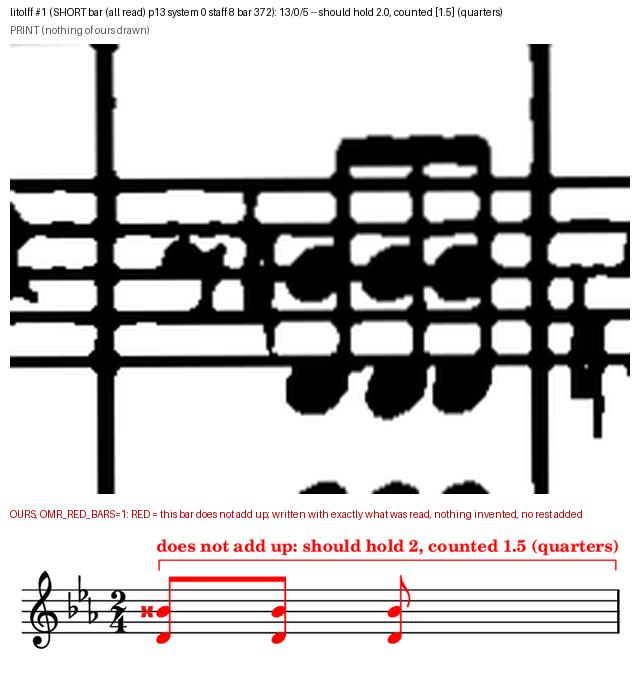
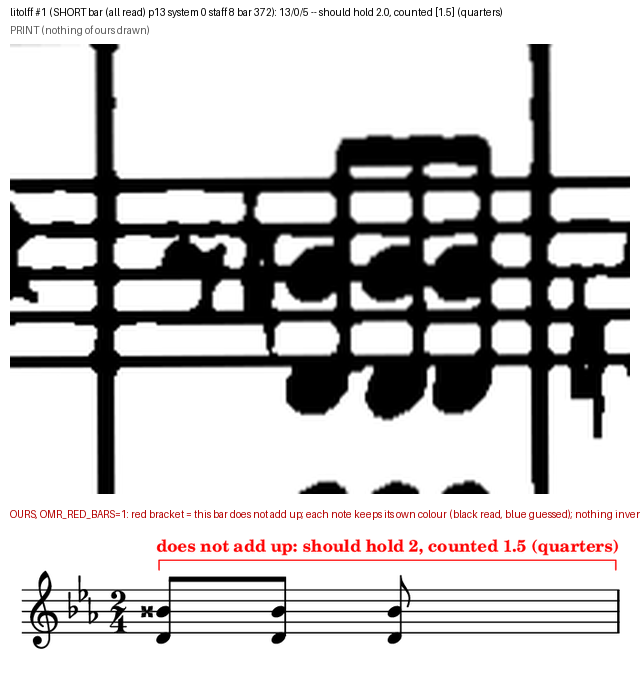
2.173: each note keeps its own status colour; the bar is red by bracket + words (Sean 2026-10-19); crops regenerated, DECISIONS

Changed region(s): [[0.2188, 0.7294, 1.0, 0.7598], [0.2188, 0.8205, 0.4688, 0.9421], [0.5938, 0.8205, 0.6562, 0.9421]]

diff --git a/tools/omr/staged/lilypond.py b/tools/omr/staged/lilypond.py
@@ -965,13 +965,8 @@ def _render_bar(bar: _Bar, wedges: Dict[int, str],
     return f"{prefix}<< {{ {inner1} }} \\\\ {{ {inner2} }} >> |"
 
 
-#: ROADMAP 2.173. The grobs a red bar is drawn in red. Set inside each voice
-#: and reverted at the end of it, so nothing after the bar is touched.
-_RED_GROBS = ("NoteHead", "Stem", "Beam", "Flag", "Rest", "Dots",
-              "Accidental", "Script", "Slur", "Tie", "TupletBracket",
-              "TupletNumber")
-_RED_ON = " ".join("\\override %s.color = #red" % g for g in _RED_GROBS)
-_RED_OFF = " ".join("\\revert %s.color" % g for g in _RED_GROBS)
+#: ROADMAP 2.173 (Sean 2026-10-19: each note keeps ITS OWN status colour; the
+#: BAR is red -- bracket + words).
 _RED_SPAN = (
     # the words take NO horizontal room: a 50-character label under every red
     # bar tripled the page count (48 -> 146 on Litolff) when it did
@@ -1007,7 +1002,7 @@ def _render_red_bar(bar: _Bar, wedges: Dict[int, str],
     * SHORT: nothing is scaled; an INVISIBLE skip (`s`, prints nothing, is not
       a rest) takes the time up, exactly as the 2.117 gap does.
 
-    The whole bar is red under one red bracket carrying want-versus-counted.
+    Each note keeps its own status colour; the bar is marked by one red bracket carrying want-versus-counted.
     """
     red = bar.red
     word = _ly_escape(red["words"])
@@ -1023,7 +1018,7 @@ def _render_red_bar(bar: _Bar, wedges: Dict[int, str],
         _tally(events, counters, bar.condensed)
         body = _lily_measure_marked(
             events, wedges, {id(events[0]): d + (start if with_span else "")},
-            counters, plain=True)
+            counters)
         if factor != 1:
             body = "\\scaleDurations %s { %s }" % (_lily_frac(factor), body)
         pad = want - length * factor
@@ -1031,7 +1026,7 @@ def _render_red_bar(bar: _Bar, wedges: Dict[int, str],
             body += " s1*%s" % _lily_frac(pad)
         if with_span:
             body = _RED_SPAN + body + " s1*0\\stopTextSpan"
-        return _RED_ON + " " + body + " " + _RED_OFF
+        return body
 
     if bar.kind == "single":
         return _voice(bar.events, lens[0], dyn, True) + " |"

diff --git a/benchmarks/omr-red-bars-2026-10/crops.py b/benchmarks/omr-red-bars-2026-10/crops.py
@@ -3,7 +3,7 @@
 
 usage: crops.py RECORD PDF OUT_DIR DOC N_SHORT N_OVER N_GUESSED
   one tile per bar: N_SHORT short bars, N_OVER overfull bars, N_GUESSED bars holding a GUESSED event (kept in the data, drawn red).
-Legend (also on every image): RED = the whole bar does not add up (written with what was read, nothing invented, nothing padded
+Legend (also on every image): RED bracket + words = the bar does not add up (written with what was read, nothing invented, nothing padded
 with a rest); the red bracket's words say should-hold vs counted, in quarters.
 
 Frame control (it can fail): the five staff lines the record filed for the staff must stand out in the print crop (mean ink on
@@ -119,7 +119,7 @@ def take(pred, label, n):
 
 take(lambda b: b["counted_quarters"][0] < b["want_quarters"] and b["guessed"] == 0, "SHORT bar (all read)", N_SHORT)
 take(lambda b: b["counted_quarters"][0] > b["want_quarters"] and b["guessed"] == 0, "OVERFULL bar (all read)", N_OVER)
-take(lambda b: b["guessed"] > 0, "bar with a GUESSED note (blue in other bars, red here)", N_GUESS)
+take(lambda b: b["guessed"] > 0, "bar with a GUESSED note (blue, as in any bar)", N_GUESS)
 
 CLEF = {"treble": "treble", "bass": "bass", "alto": "alto", "tenor": "tenor"}
 
@@ -172,8 +172,8 @@ for n, (key, b, label) in enumerate(chosen, 1):
     dr.text((10, 24), "PRINT (nothing of ours drawn)", fill=(90, 90, 90))
     canvas.paste(print_crop, (10, 44))
     yo = 44 + print_crop.height + 14
-    dr.text((10, yo), "OURS, OMR_RED_BARS=1: RED = this bar does not add up; written with exactly what was read, "
-                      "nothing invented, no rest added", fill=(180, 0, 0))
+    dr.text((10, yo), "OURS, OMR_RED_BARS=1: red bracket = this bar does not add up; each note keeps its own colour "
+                      "(black read, blue guessed); nothing invented, no rest added", fill=(180, 0, 0))
     canvas.paste(ours, (10, yo + 20))
     name = "%s-%d-p%d-s%d-staff%d-cell%d.png" % (DOC, n, page, system, staff, cell)
     canvas.save(OUT / name)

diff --git a/tools/omr/tests/test_staged_red_bars_2_173.py b/tools/omr/tests/test_staged_red_bars_2_173.py
@@ -60,11 +60,13 @@ class TestOffIsTheHoldOut(unittest.TestCase):
 
 
 class TestShortBarIsWrittenRed(unittest.TestCase):
-    def test_every_read_note_is_in_the_file_at_its_read_value_and_red(self):
+    def test_every_read_note_is_in_the_file_at_its_read_value_in_its_OWN_colour(self):
+        """Sean 2026-10-19: *"Each note with its own color"* -- READ stays
+        black; the BAR is what is red (bracket + words)."""
         xml, rep = _xml(SHORT, "1")
         self.assertEqual(_steps(xml), ["C", "D", "E"])
         notes = ET.fromstring(xml).findall(".//note")
-        self.assertEqual([n.get("color") for n in notes], [RED] * 3)
+        self.assertEqual([n.get("color") for n in notes], [None] * 3)
         self.assertEqual({n.findtext("type") for n in notes}, {"quarter"})
         self.assertEqual(rep["bars_held_out_sum"]["bars"], 0)
 
@@ -146,6 +148,12 @@ class TestLilyPond(unittest.TestCase):
     def test_off_has_no_red_text(self):
         ly, _ = _ly(SHORT, "0")
         self.assertNotIn("does not add up", ly)
+
+    def test_no_note_or_rest_is_overridden_to_red_in_lilypond(self):
+        ly, _ = _ly(SHORT, "1")
+        line = next(l for l in ly.splitlines() if "does not add up" in l)
+        self.assertNotIn("NoteHead.color", line)
+        self.assertIn("TextSpanner.color = #red", line)      # the bracket stays red
 
     def test_short_bar_is_an_invisible_skip_never_a_rest_or_a_stretch(self):
         ly, rep = _ly(SHORT, "1")

diff --git a/tools/omr/staged/export.py b/tools/omr/staged/export.py
@@ -188,15 +188,6 @@ def _red_bar_applies(held: Optional[Dict[str, Any]]) -> bool:
                         for v in held["voices"]))
 
 
-_NOTE_OPEN = re.compile(r'<note(?: color="[^"]*")?>')
-
-
-def _redden_note_xml(xml: str) -> str:
-    """Colour each `<note>` red. A GUESSED note's blue is replaced for the
-    DRAWING only; its `reengrave:guessed` carrier stays in the element."""
-    return _NOTE_OPEN.sub('<note color="%s">' % UNREAD_BAR_MARK_COLOR, xml)
-
-
 def _red_bar_rows(events: Sequence[Dict[str, Any]]) -> List[Dict[str, Any]]:
     """What the bar holds, per event, with its READ/GUESSED status, so the
     coverage keeps what the red drawing hides."""
@@ -4652,7 +4643,9 @@ def _part_xml(rec: Record, part: Sequence[StaffRun], pid: str,
                     lines.append(_red_bar_word_xml(_red_bar_words(held)))
                     _body = _measure_xml(rec, run, i, events, divisions,
                                          counters, split=split)
-                    lines.extend(_redden_note_xml(x) for x in _body)
+                    # Sean 2026-10-19: each note keeps ITS OWN status colour
+                    # (black READ, blue GUESSED); the BAR is what is red.
+                    lines.extend(_body)
                     lines.append(_unread_bracket_xml("stop", 1))
                 else:
                     lines.extend(_measure_xml(rec, run, i, events, divisions,

diff --git a/out/print/2.173/README.md b/out/print/2.173/README.md
@@ -2,17 +2,16 @@
 
 Each tile: the PRINT bar on top (nothing of ours drawn on it), and the SAME bar as our LilyPond engraving below,
 with `OMR_RED_BARS=1`. Six tiles: Litolff (Beethoven 5) x3, Brahms 1 x3; per plate one SHORT bar, one OVERFULL bar,
-one bar that holds a GUESSED note. Chosen at random (seed 173), frame-checked against the print's staff lines.
+one bar that holds a GUESSED note (blue). Chosen at random (seed 173), frame-checked against the print's staff lines.
 
-What red means:
+What the colours mean (Sean, 2026-10-19: *"Each note with its own color"*):
 
-* RED (every note, rest and the bracket over the bar) = **this bar does not add up** to the meter. Sean, 2026-10-19:
-  *"Written in red instead of held out is the way to go."* Before, the whole bar was left out of the file.
-* The words over the bracket say what was wanted and what was counted, in quarter notes
-  ("should hold 2, counted 1.5").
-* Every note is written exactly as it was read, at its own value. Nothing is invented and **no rest is added**.
-  A short bar is left short (an invisible skip fills the time on the LilyPond clock; it prints nothing). An overfull bar keeps
-  every printed note shape; only the engraver's clock is fitted, so the staves still line up.
-* A note that was only GUESSED would be blue in an ordinary bar. In a red bar it is drawn red like the rest; the file's data
-  still says READ or GUESSED for each note (`bars_written_red.bars_list[].rows[].status` in the export report).
-* Black/blue elsewhere are unchanged: black = read, blue = guessed, red bracket reading "unread" = a stretch not read.
+* The red BRACKET and its words over the bar = **this bar does not add up** to the meter ("should hold 2, counted 1.5", in
+  quarter notes). Before, the whole bar was left out of the file.
+* Each note and rest keeps ITS OWN colour: **black = read, blue = guessed**; red is used on a note only where that note is itself
+  unread, as in any other bar.
+* Every note is written exactly as it was read, at its own value. Nothing is invented and **no rest is added**. A short bar is
+  left short (an invisible skip fills the time on the LilyPond clock; it prints nothing). An overfull bar keeps every printed note
+  shape; only the engraver's clock is fitted, so the staves still line up.
+* The file's data also says READ or GUESSED per note (`bars_written_red.bars_list[].rows[].status` in the export report).
+* Red bracket reading "unread" elsewhere = a stretch not read.

diff --git a/docs/DECISIONS.md b/docs/DECISIONS.md
@@ -9,6 +9,7 @@ Format: `YYYY-MM-DD · who · the decision · because · (pointer)`
 
 ---
 
+- 2026-10-19 · Sean · Inside a bar that does not add up, each note keeps ITS OWN status colour (black READ, blue GUESSED); the BAR is marked red by the bracket + "does not add up: should hold X, counted Y" words: "Each note with its own color land with on. This will be helpful in general, even for me, to be able to know when we are getting things right or wrong, and how close we are." · a whole-red bar hid which notes were read and which guessed · (ROADMAP 2.173, `OMR_RED_BARS`; refines the line below; to be landed ON)
 - 2026-10-19 · Sean · A bar whose durations do not add up is WRITTEN with what was read, in red, never held out whole: asked "Should held-out bars be written with what we read and marked red, instead of being left out?", answered "Written in red instead of held out is the way to go" · holding the whole bar drops the notes read right with the one read wrong (20261018-night: 1,395 Litolff / 2,870 Brahms distinct ink in held bars), and only 44 / 100 of those bars have a single-note fix (2.165); nothing is invented, the bar is marked, Sean can see and fix it · (ROADMAP 2.173; extends 2.117)
 - 2026-10-19 · Sean · Build the detector-view fix from 2.171 ("Yes"), on the principle of how a reader looks: "this makes a lot of sense because I think that's what the human eye does also. We take a big picture view of things that automatically gets rid of a lot of the noise for some of the smaller things, and where it gets really crowded or hard to read. We look closer." · 2.171: one fixed 16 px staff space suits no symbol family (Brahms dots/flags/rests read better smaller, Litolff welded heads larger) and a near-floor confidence moves ~0.15 under a sub-pixel shift, so "read fine elsewhere" is often the same symbol landing on the lucky side · (benchmarks/omr-detector-crop-mechanism-2026-10/FINDINGS.md; ROADMAP 2.172)
 - 2026-10-19 · Sean · 2.170 round 2 tiles: "170 round 2  1.8 2.8 3.4" · the changed note (tile 3, narrowed -> quarter under the head-fill guard + system-arc witness) is right; both controls (eighths) right · (benchmarks/omr-beams-shattered-2026-10/FINDINGS.md, out/print/2.170-review-2/answers.json)

diff --git a/benchmarks/omr-red-bars-2026-10/FINDINGS.md b/benchmarks/omr-red-bars-2026-10/FINDINGS.md
@@ -5,6 +5,7 @@ Sean 2026-10-19: *"Written in red instead of held out is the way to go."* STAGED
 EXPORT-only, flag OFF vs ON, `replay.py` (loads each record once). Nothing merged, nothing flipped.
 
 ## What it does
+**REVISED 2026-10-19 (Sean: "Each note with its own color")**: the notes are NOT recoloured. Inside a red bar each note/rest keeps its own status colour (black READ, blue #1F6FEB GUESSED); the BAR is marked red by the bracket + words only (MusicXML and LilyPond). Everything below that says "every note red" / "red \override per voice" is superseded; numbers are unchanged (colour only).
 * Where EXPORT held a bar out under 2.8 (`bar_does_not_add_up`) and the 2.117 partial-bar planner could not place a gap, the bar
   is written through the ordinary writer: each event at its own read value, its own READ/GUESSED carrier, **no padding rest,
   no `<forward>`, nothing moved**. A 2.117 partial bar keeps its own path (it is not a held bar).
